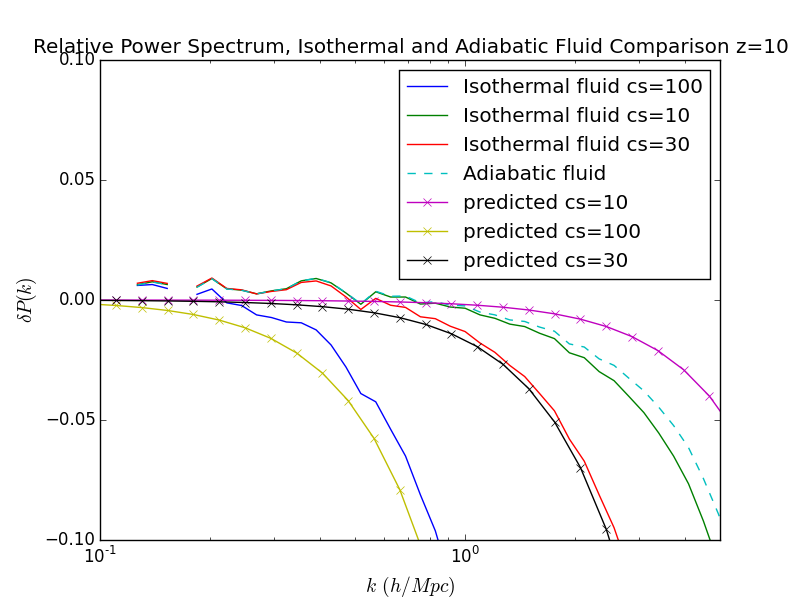
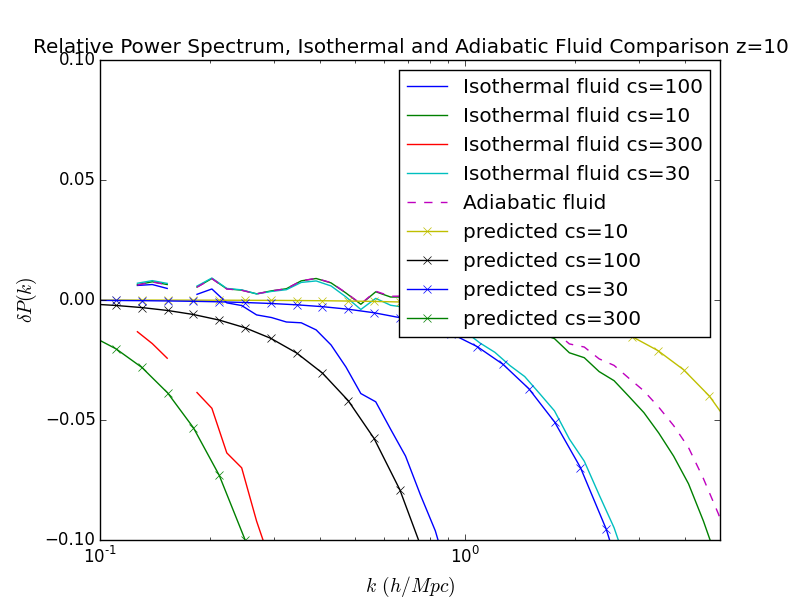
Added analytic cs=300 predictions.

diff --git a/plots/isothermal/isothermal_fluid_low_adiabatic_normalized_particle_z10_minpressure.py b/plots/isothermal/isothermal_fluid_low_adiabatic_normalized_particle_z10_minpressure.py
@@ -22,7 +22,7 @@ for simtype in simtypes:
     for filename in filenames:
         if 'iso' in filename and 'minpressure16' in filename:
             isothermal = isothermalpattern.findall(filename)[0]
-            if isothermal in ['10','30','100']:
+            if isothermal in ['10','30','100','300']:
                 n = npattern.findall(filename)[0]
                 kvalues, ps = np.loadtxt(result_dir+filename, unpack=True)
                 ps = (ps - ps_base)/ps_base
@@ -35,7 +35,7 @@ for simtype in simtypes:
 filenames = [filename for filename in results if 'testgrowth' in filename]
 for filename in filenames:
     testgrowth = testgrowthpattern.findall(filename)[0]
-    if testgrowth in ['10','30','100']:
+    if testgrowth in ['10','30','100','300']:
         label = 'predicted cs='+testgrowth
         col1, kvalues, linearpower, col4, col5, sqrtsuppression = np.loadtxt(result_dir+filename, unpack=True)
         style = '-x'
